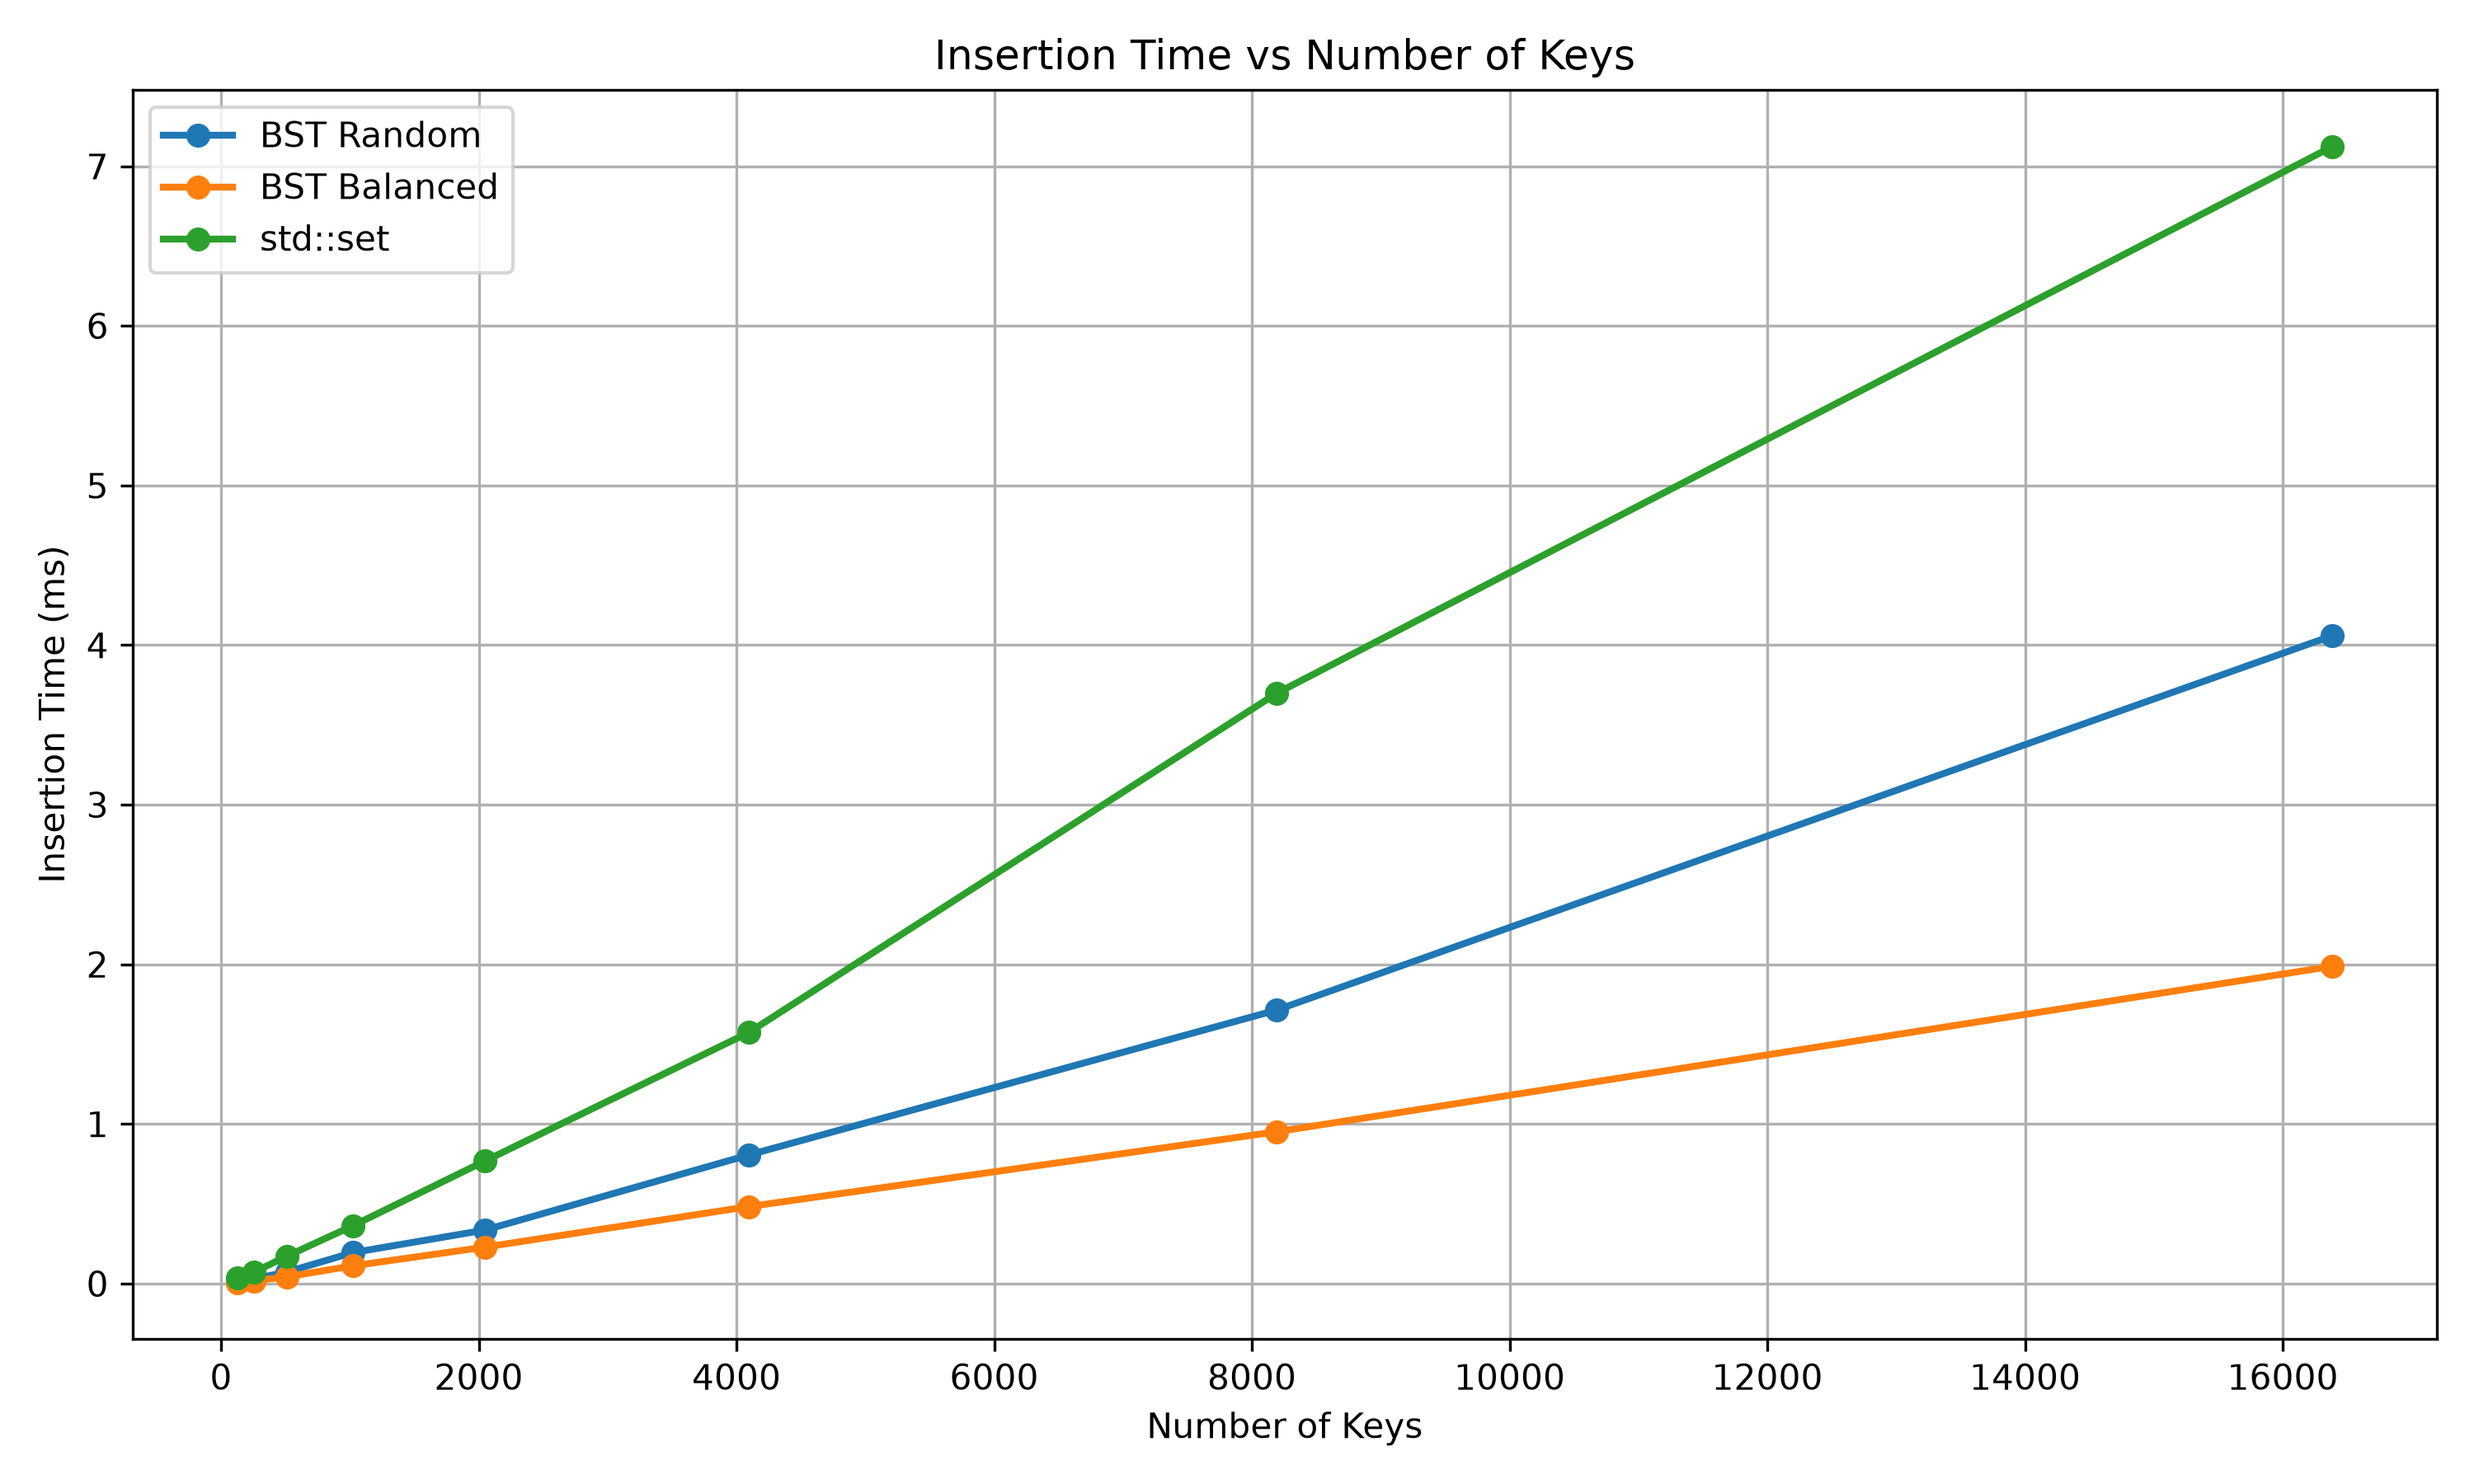
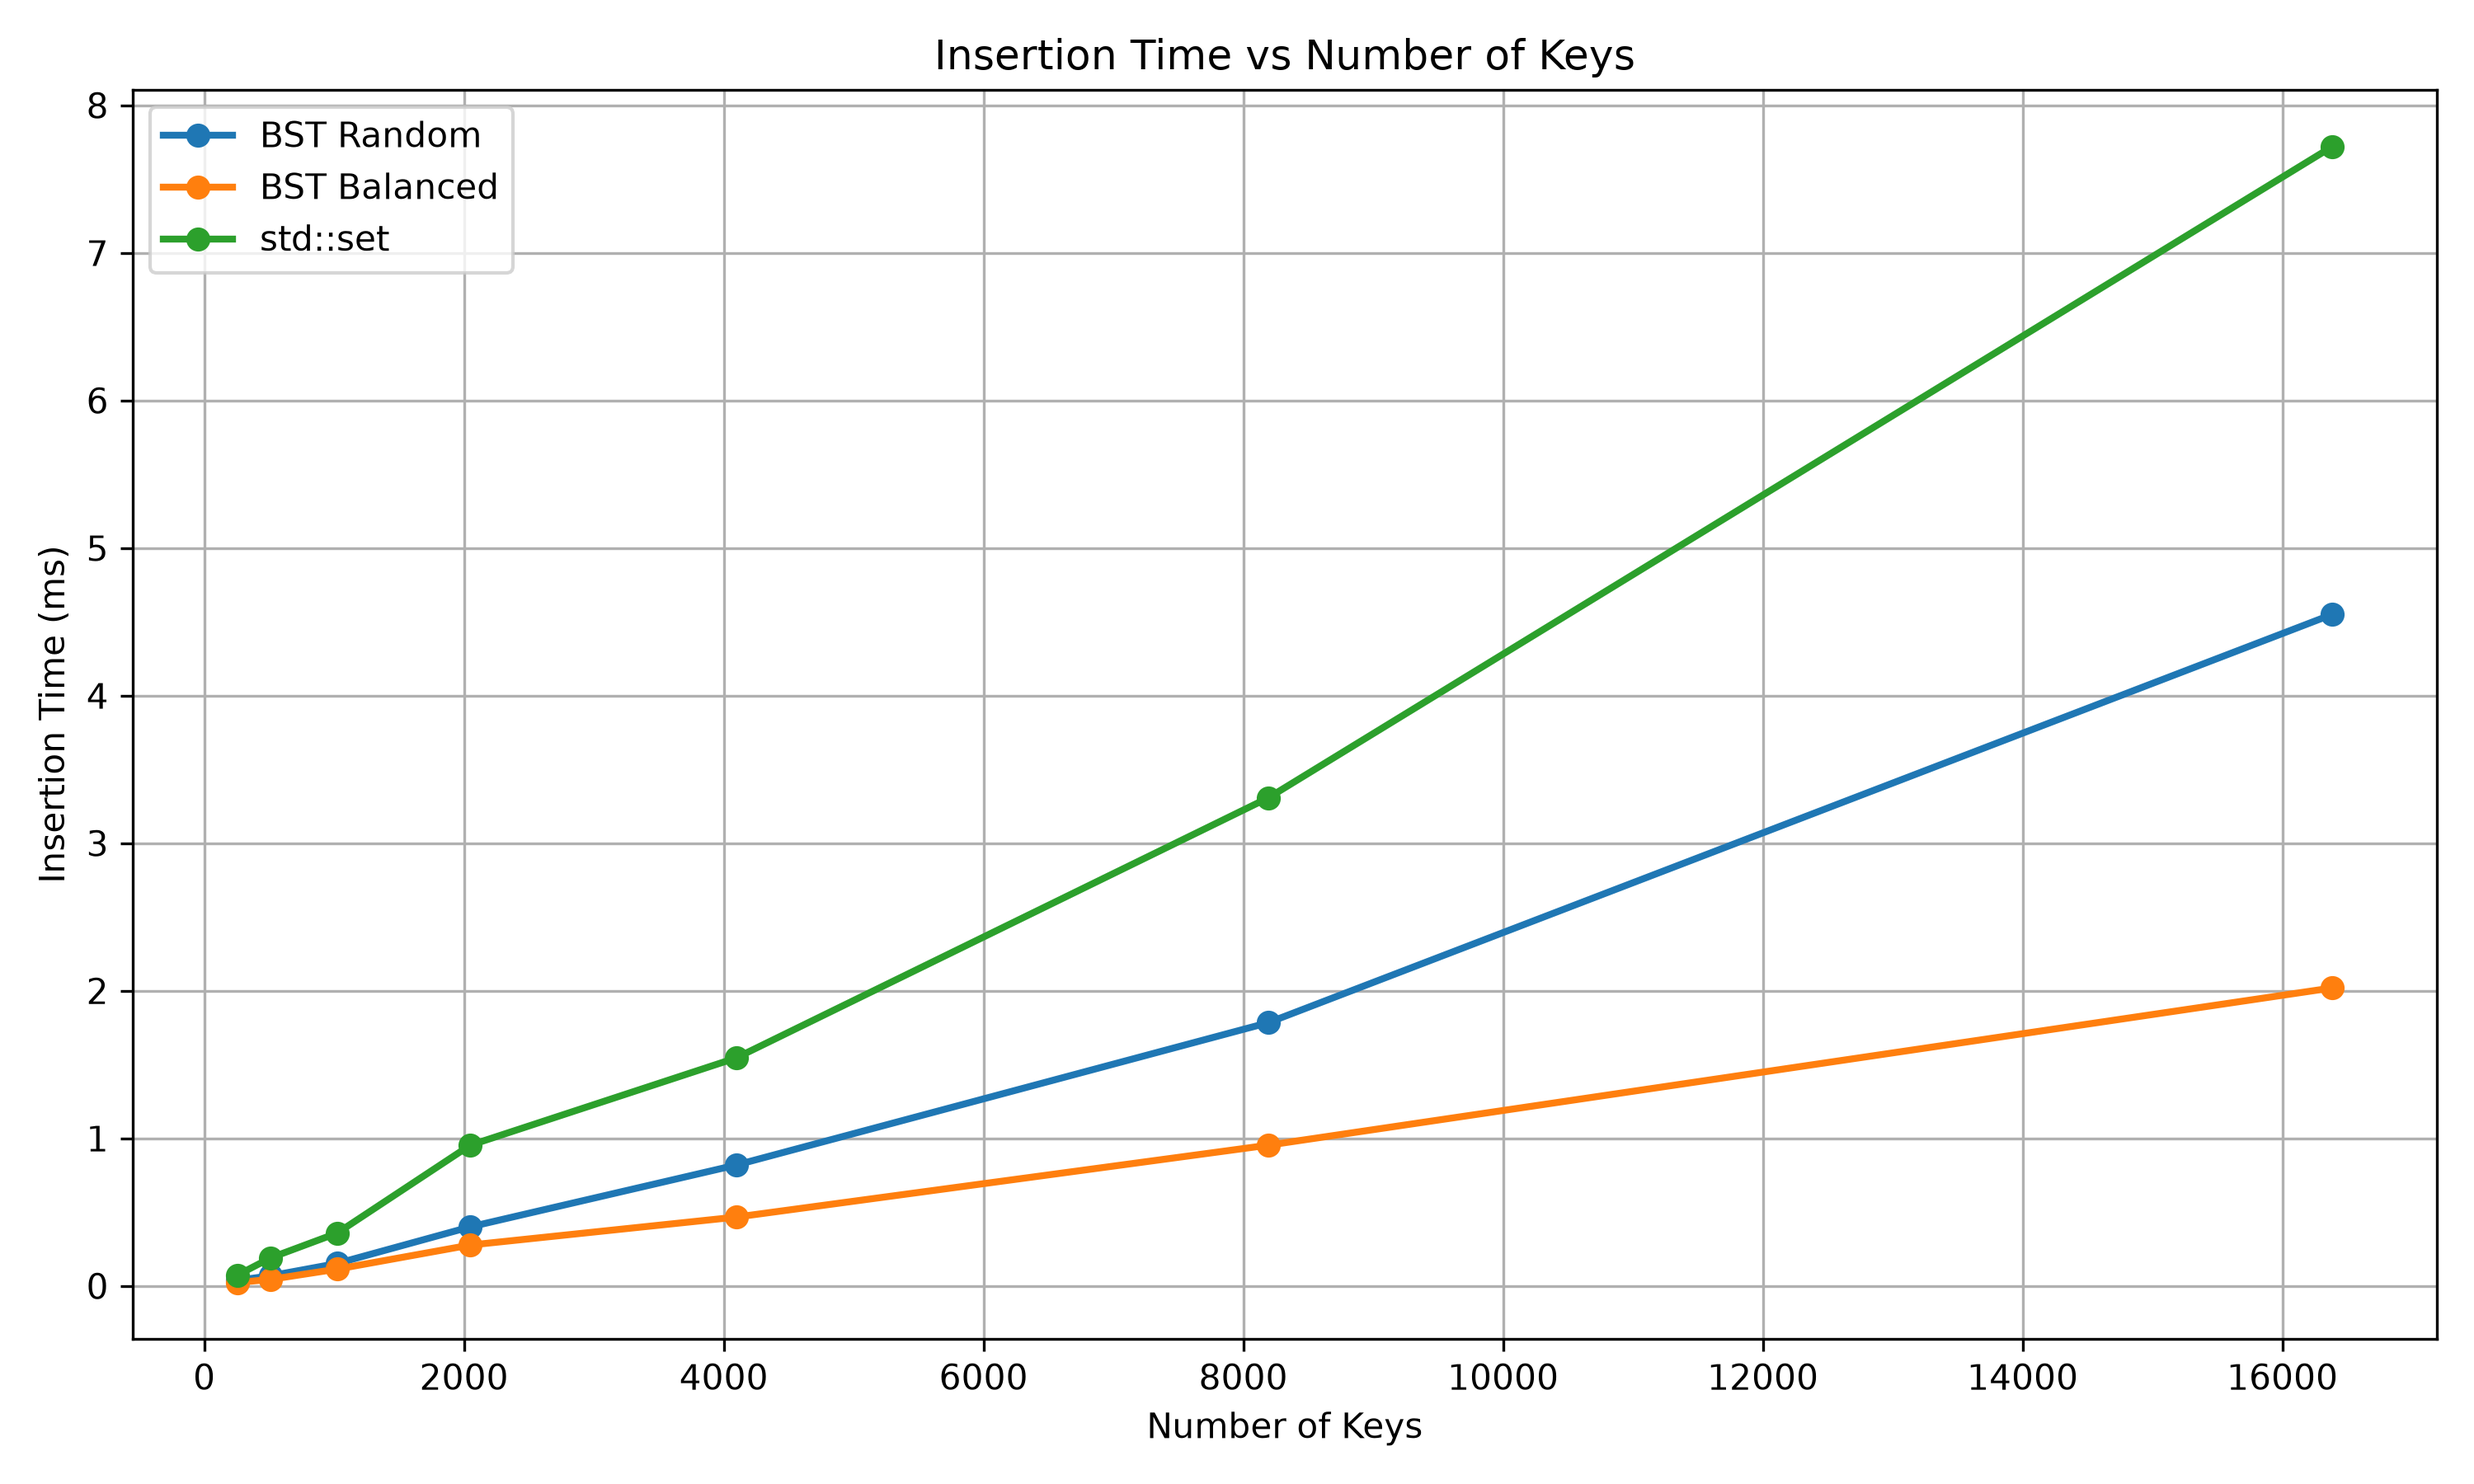
Fix CSV header formatting and update benchmark data in main function

diff --git a/src/main.cpp b/src/main.cpp
@@ -37,7 +37,7 @@ int main()
         << "BSTDeleteMs,"
         <<"StdSetDeleteMs,"
         << "BSTRandomHeight,"
-        << "BSTBalancedHeight";
+        << "BSTBalancedHeight\n";
 
     for(int size : sizes)
     {
@@ -62,7 +62,7 @@ int main()
             << deleteBST << ","
             << deleteSet << ","
             << randomHeight << ","
-            << balancedHeight << ","
+            << balancedHeight
             << '\n';
 
         std::cout
